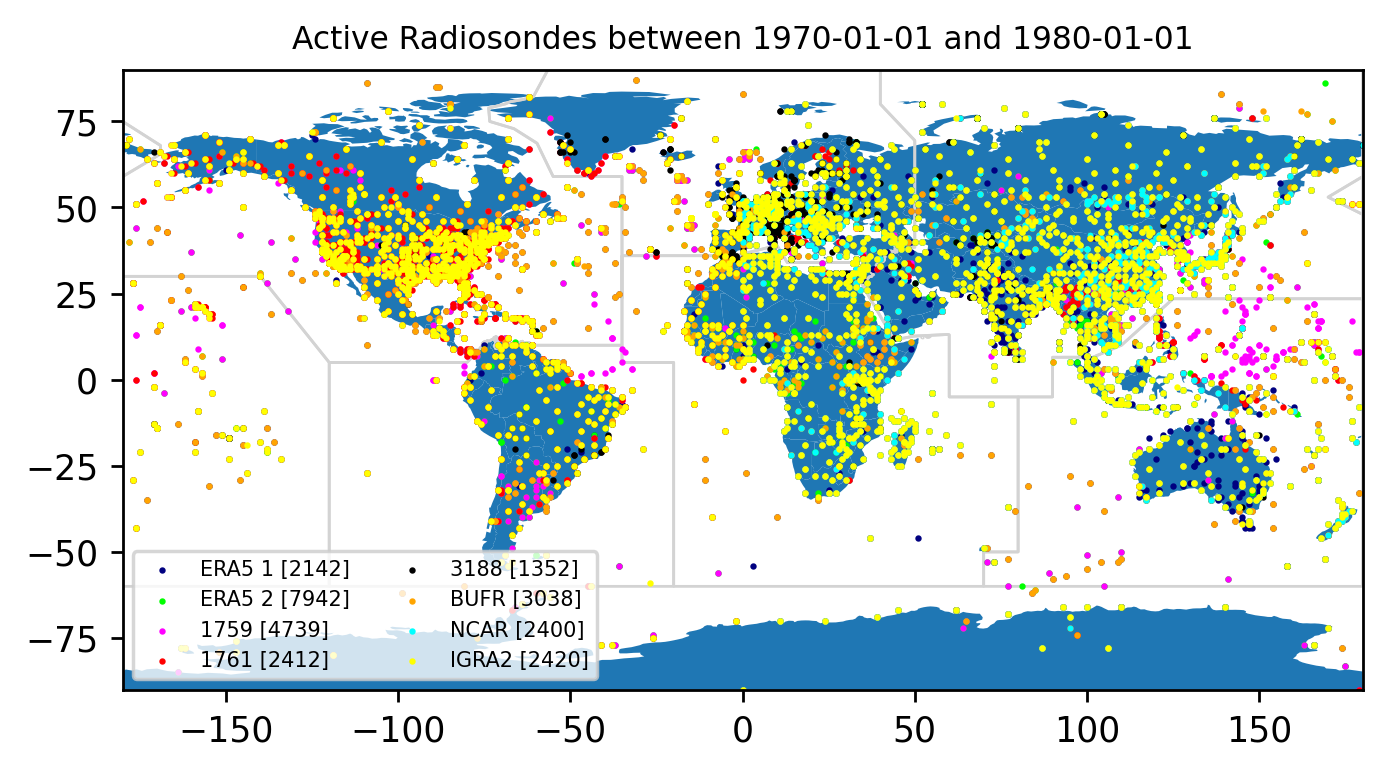
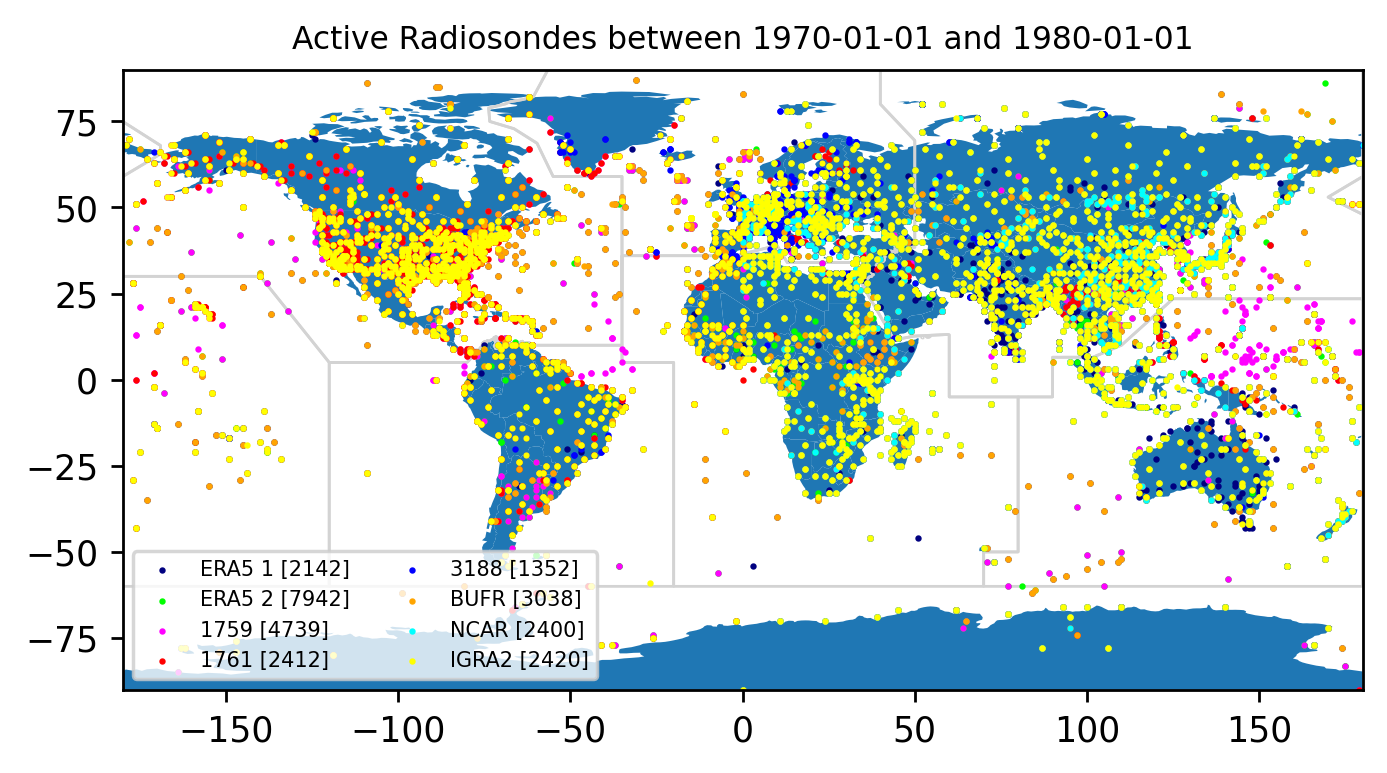
Up plots

diff --git a/CEUAS/dev_federico/world_plots/pretty_WMO_databases/pretty_WMOregions_databases.py b/CEUAS/dev_federico/world_plots/pretty_WMO_databases/pretty_WMOregions_databases.py
@@ -66,7 +66,7 @@ def make_plot_gpd(WMO, start_date = '', end_date = '' , databases = ''):
         
     style_dic = { 'era5_1'    : { 'c' : 'navy' ,    'l': 'ERA5 1'  , 's': 4 } , 
                   'era5_2'    : { 'c' : 'lime' ,    'l': 'ERA5 2'  , 's': 4 } ,
-                  'era5_3188' : { 'c' : 'black' ,   'l': '3188'    , 's': 9 } ,
+                  'era5_3188' : { 'c' : 'blue' ,   'l': '3188'    , 's': 9 } ,
                   'era5_1759' : { 'c' : 'magenta' , 'l': '1759'    , 's': 9 } ,
                   'era5_1761' : { 'c' : 'red' ,     'l': '1761'    , 's': 6 } ,
                   'bufr'      : { 'c' : 'orange' ,  'l': 'BUFR'    , 's': 6 } ,
